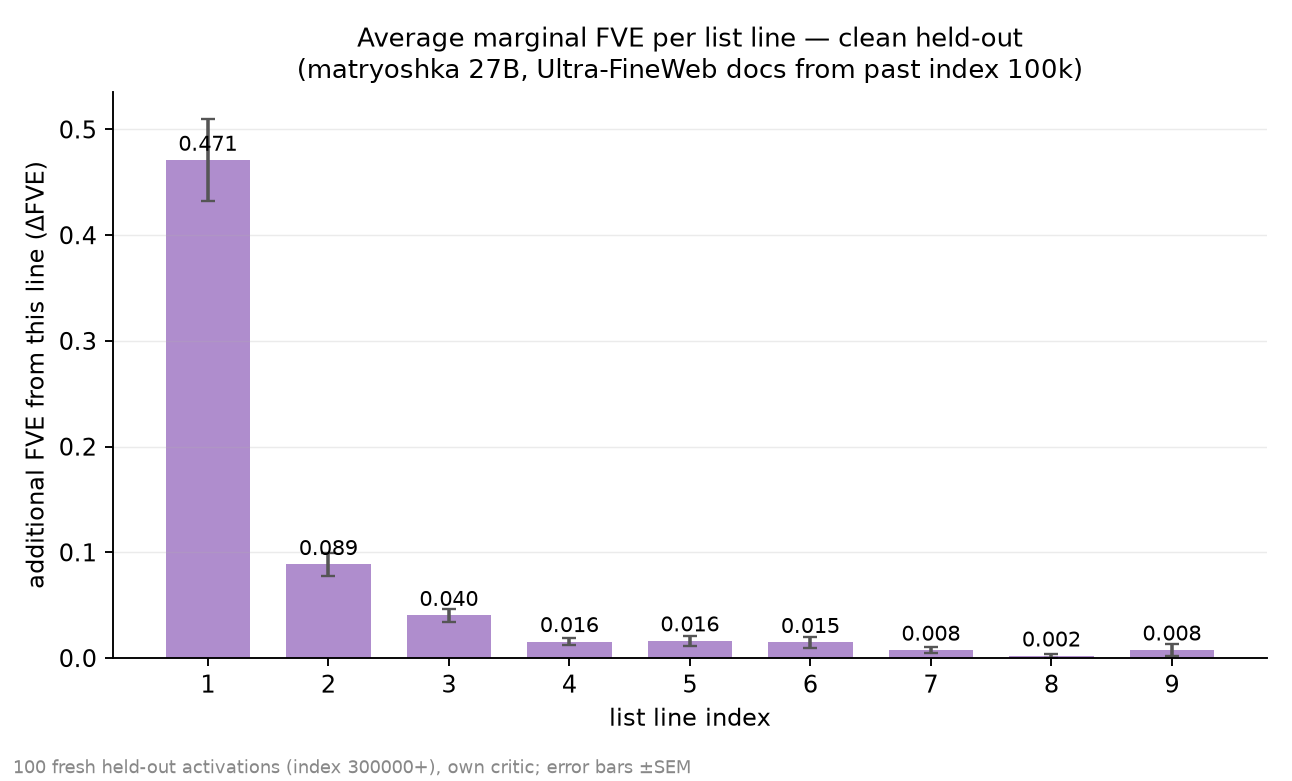
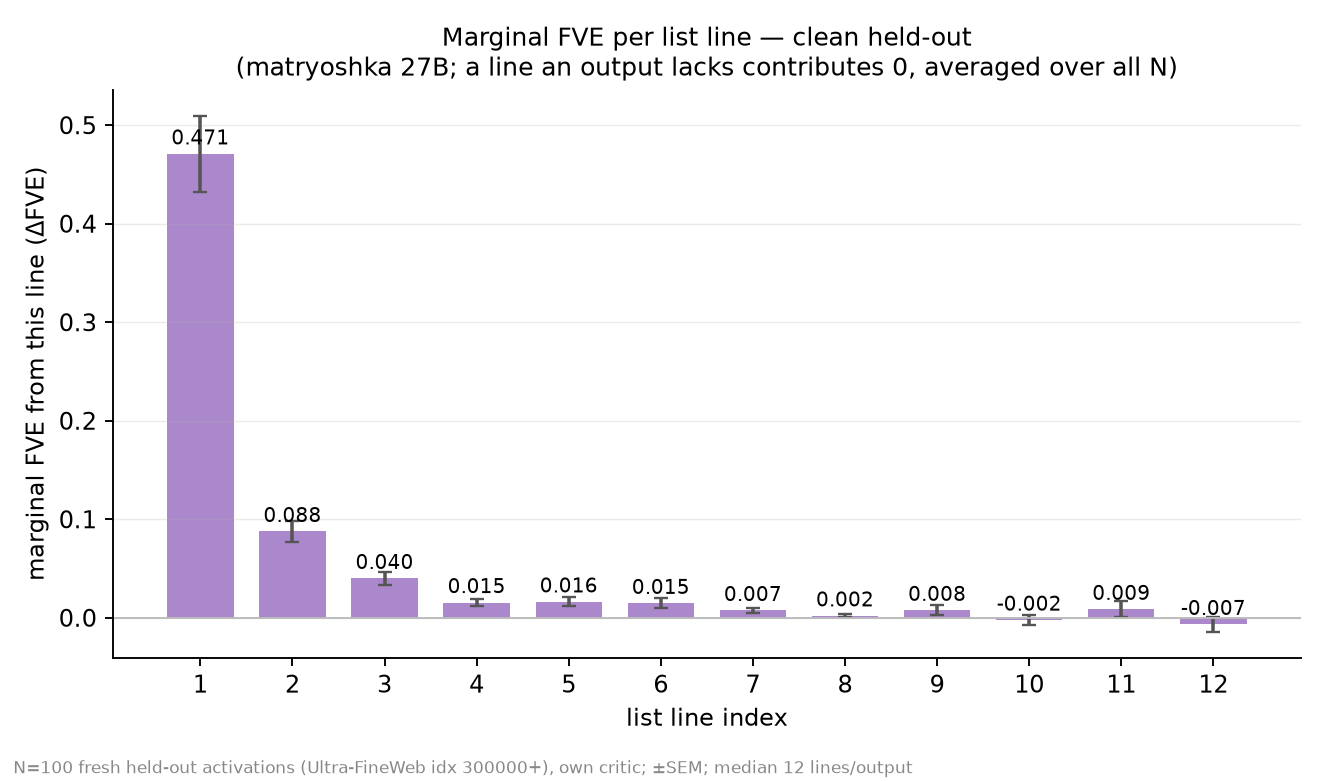
🐛 per-line marginal FVE: absence=0 over all N (fix survivorship bias)
A line an output lacks contributes 0 to its marginal, averaged over all N
rather than filtered to outputs long enough to have it. Marginals now sum to
0.661 = full-len FVE 0.662 (proper decomposition). Early lines unchanged
(98-100% coverage); only the near-zero tail was affected.

Claude-Session: https://claude.ai/code/session_013QpD8gUKVwdg5FeGc2gDm2

diff --git a/experiments/qwen3.6-27b-evalsuite/RESULTS.md b/experiments/qwen3.6-27b-evalsuite/RESULTS.md
@@ -102,7 +102,15 @@ Result: the frontloading signature is **robust to the fix** — full-length FVE
 0.662 (vs 0.657 on the contaminated set), line-1 marginal 0.471 ± 0.039 (vs
 0.508). Contamination inflated line 1 by ~7% relative but changed nothing
 qualitative; the first line still carries ~71% of full-explanation FVE on
-genuinely unseen documents. Data: `results/clean_{fve_by_line.json,token_fve.csv,lines_fve.csv}`.
+genuinely unseen documents.
+
+Per-line marginals use the unbiased definition: line k's marginal is averaged
+over **all** N outputs, and an output that doesn't have a k-th line contributes
+0 (a nonexistent line adds nothing to reconstruction) — not filtered to the
+subset long enough to have it. The per-line marginals sum to 0.661 ≈ the
+full-length FVE 0.662, confirming a proper decomposition. (Outputs run ~12
+lines each since the model rarely emits EOS, so lines 1–10 have 98–100%
+coverage regardless; the fix matters only for the near-zero tail.) Data: `results/clean_{fve_by_line.json,token_fve.csv,lines_fve.csv}`.
 
 ## KL vs reconstruction contribution during RL
 
